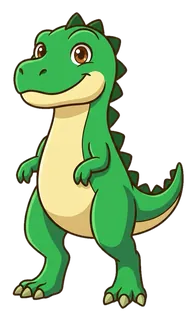
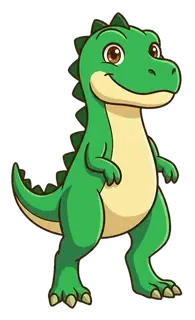
霸王龙成长原画 3、4 朝左（背对怪兽），水平翻转为朝右，手和头盔位置镜像（家长 10-23 反馈）

diff --git a/src/ui.js b/src/ui.js
@@ -555,11 +555,12 @@ const HERO_HEAD = [{hx:.49, hy:.13, hw:.51}, {hx:.5, hy:.13, hw:.51}, {hx:.5, hy
    小勇士按盔甲品质 grow_<品质>_<阶段>（没穿或没有这张就 grow_base_<阶段>）；神秘勇士是小勇士的剪影，跟着小勇士长大。
    没有这张原画就退回第 1 阶段的原画。GROW_POSE 是长大后手和头的位置（同 HERO_HANDS / HERO_HEAD 的写法）。 */
 const GROW_NAME = ["base","ninja","robot","astronaut","trex","dragon","unicorn","king"];
+// 原画要面朝右（怪兽在右边）：霸王龙 3、4 原画朝左，已水平翻转（原图也一起翻了）
 const GROW_POSE = {
   dragon_2:{fr:.2, fl:.8, fy:.6, hx:.5, hy:.17, hw:.41}, dragon_3:{fr:.3, fl:.72, fy:.54, hx:.5, hy:.15, hw:.36}, dragon_4:{fr:.3, fl:.72, fy:.52, hx:.5, hy:.13, hw:.32},
-  trex_2:{fr:.36, fl:.76, fy:.58, hx:.55, hy:.13, hw:.48}, trex_3:{fr:.3, fl:.7, fy:.5, hx:.42, hy:.1, hw:.38},
+  trex_2:{fr:.36, fl:.76, fy:.58, hx:.55, hy:.13, hw:.48}, trex_3:{fr:.42, fl:.76, fy:.5, hx:.58, hy:.1, hw:.38},
   unicorn_2:{fy:.56, hx:.45, hy:.18, hw:.46}, unicorn_3:{fy:.5, hx:.68, hy:.13, hw:.34},
-  trex_4:{fr:.22, fl:.74, fy:.48, hx:.45, hy:.1, hw:.38}, unicorn_4:{fy:.5, hx:.7, hy:.13, hw:.31},
+  trex_4:{fr:.38, fl:.8, fy:.48, hx:.55, hy:.1, hw:.38}, unicorn_4:{fy:.5, hx:.7, hy:.13, hw:.31},
   robot_2:{fr:.15, fl:.85, fy:.56, hx:.5, hy:.12, hw:.50}, robot_3:{fr:.13, fl:.87, fy:.55, hx:.5, hy:.1, hw:.36}, robot_4:{fr:.11, fl:.89, fy:.55, hx:.5, hy:.1, hw:.36},
   astronaut_2:{fr:.12, fl:.88, fy:.55, hx:.5, hy:.08, hw:.48}, astronaut_3:{fr:.12, fl:.88, fy:.55, hx:.5, hy:.08, hw:.46}, astronaut_4:{fr:.12, fl:.88, fy:.53, hx:.5, hy:.08, hw:.43},
   ninja_2:{fr:.15, fl:.85, fy:.7, hx:.5, hy:.13, hw:.55}, ninja_3:{fr:.15, fl:.87, fy:.62, hx:.52, hy:.1, hw:.45}, base_2:{fr:.15, fl:.85, fy:.55, hx:.5, hy:.09, hw:.48},
